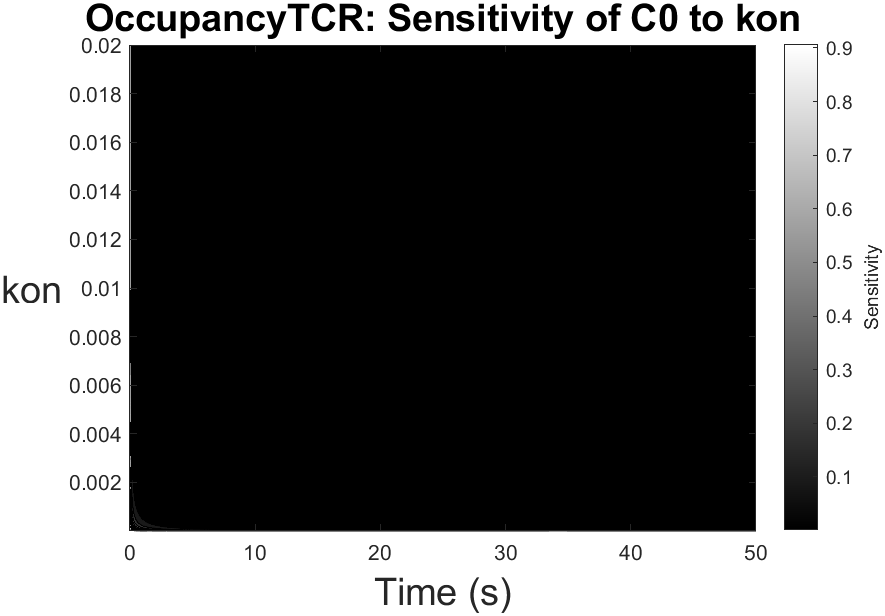
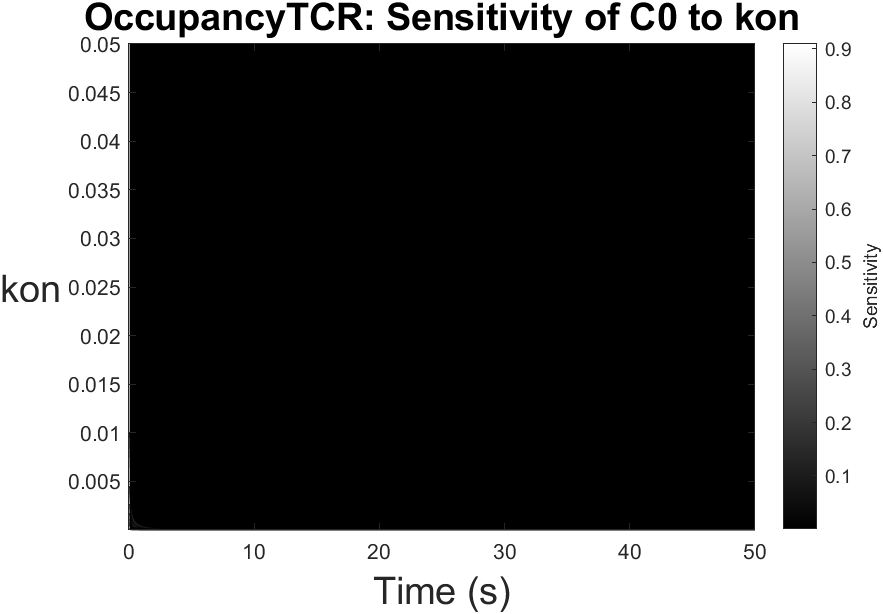
test

diff --git a/v.6/models/OccupancyTCR_options.m b/v.6/models/OccupancyTCR_options.m
@@ -7,7 +7,7 @@ model.param_values =[5e-5, 0.01];
 model.param_names = {'kon', 'koff'};
 
 % === PARAMETER RANGE VALUES ===
-model.range_type = 3;
+model.range_type = 1;
 % Choose one option:
 %   1 -> default range: 3 orders of magnitude below and 3 above the nominal parameter value.
 %   2 -> define [min, max] for each parameter and the number of points
@@ -16,7 +16,7 @@ model.range_type = 3;
 if model.range_type == 1
 
     % How many points you would like to compute within the default range
-    model.number_samples = 1000;
+    model.number_samples = 100;
 
 elseif model.range_type == 2
 
